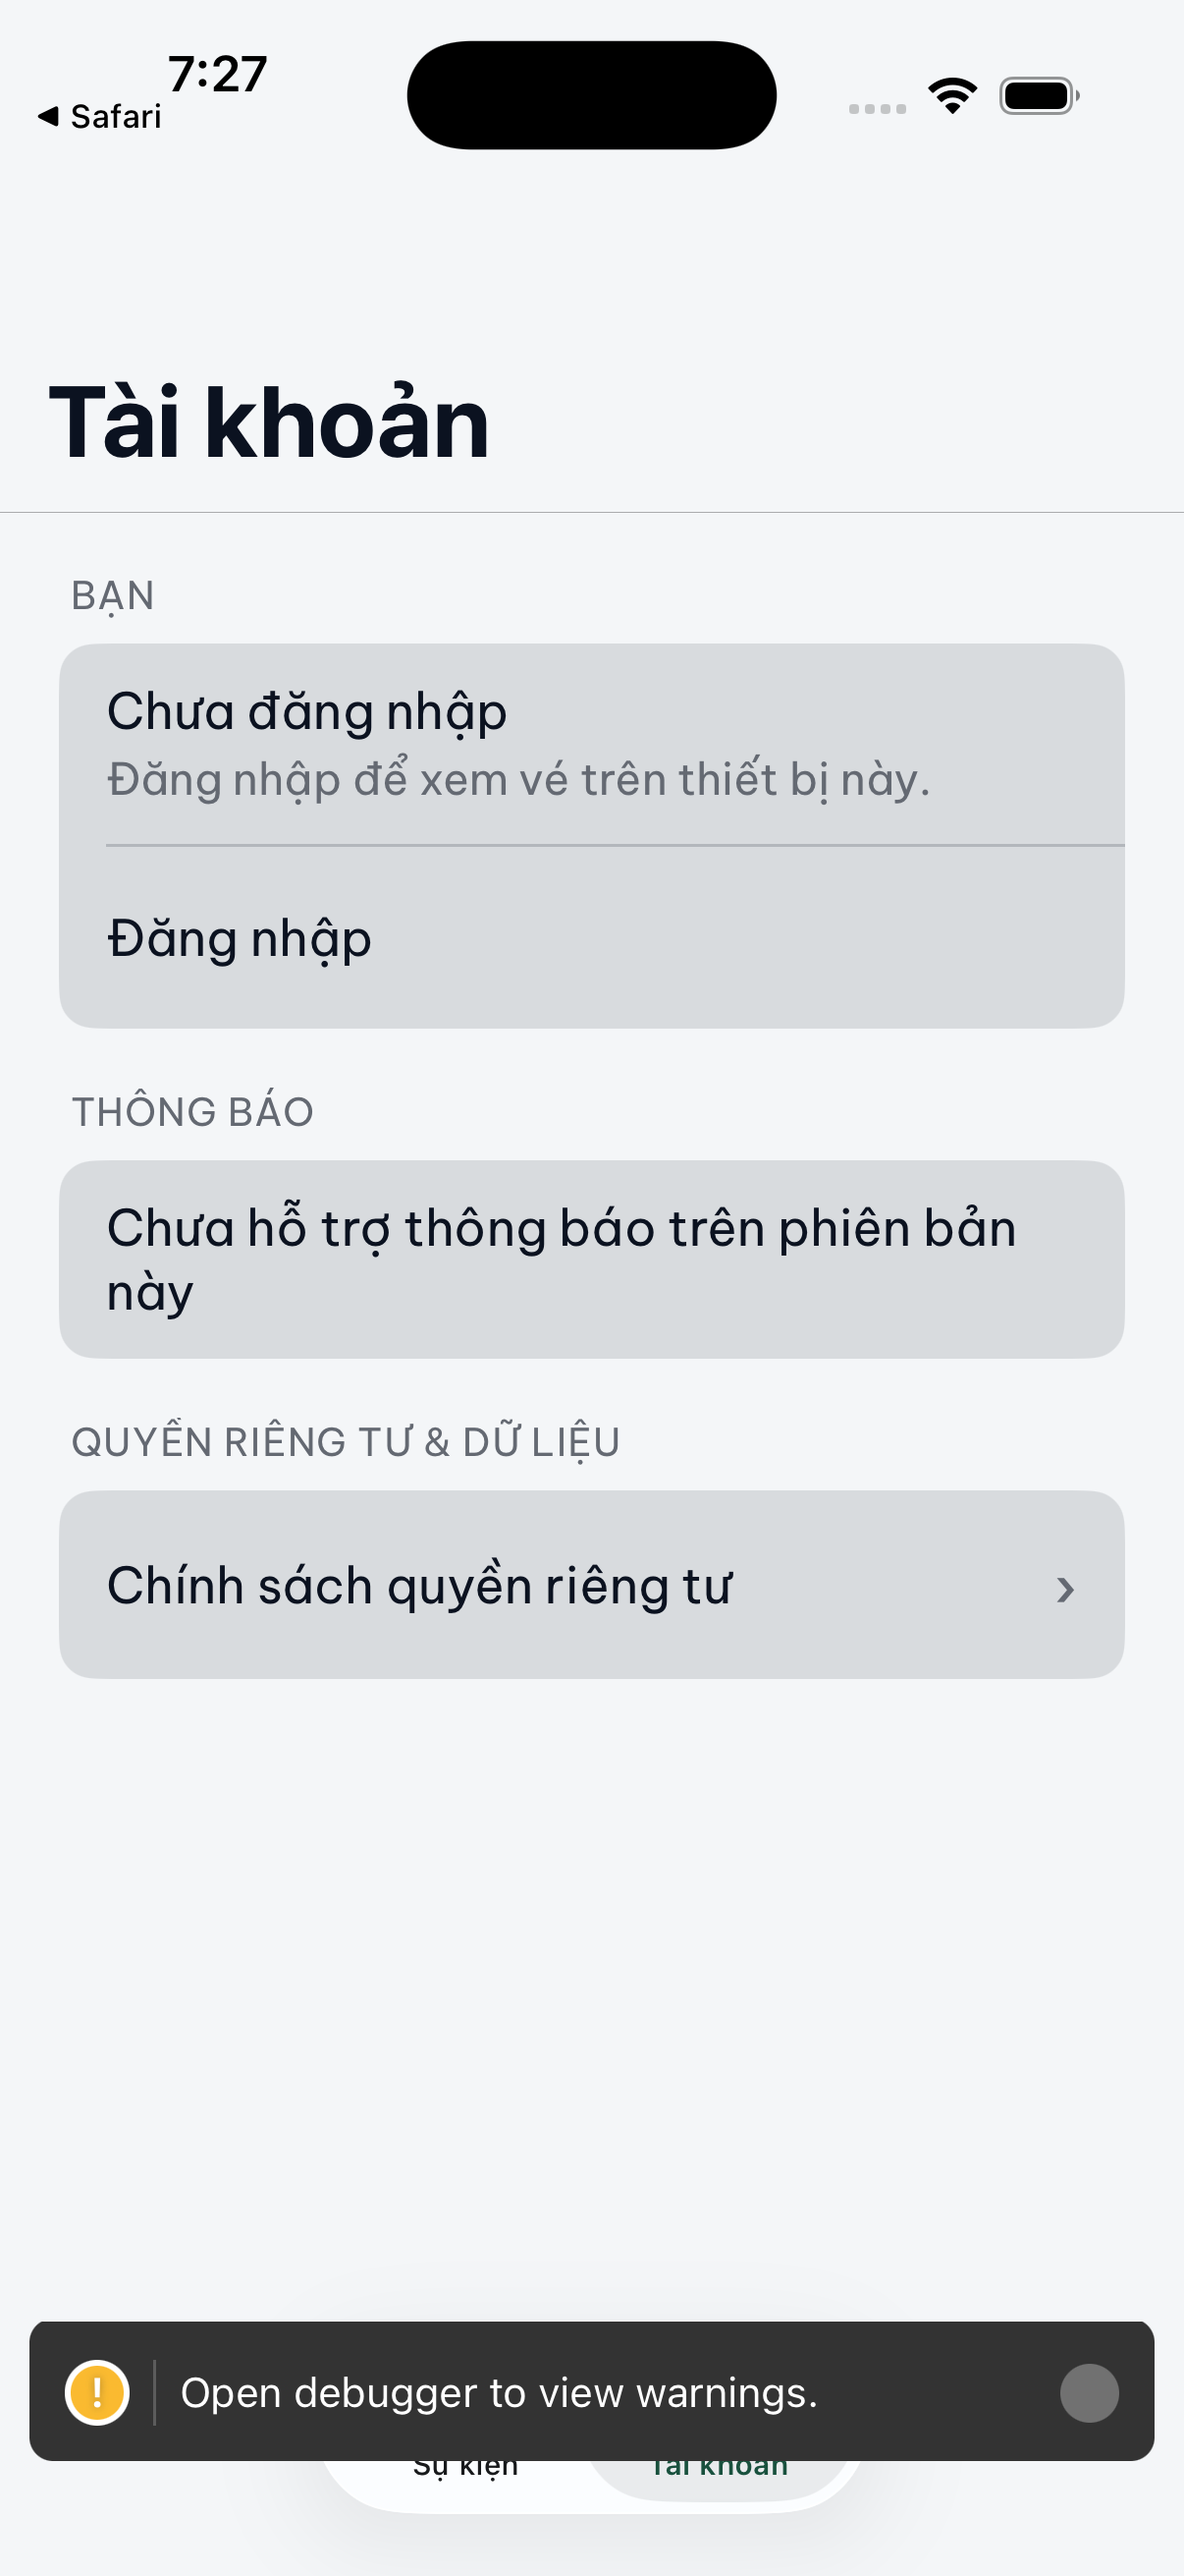
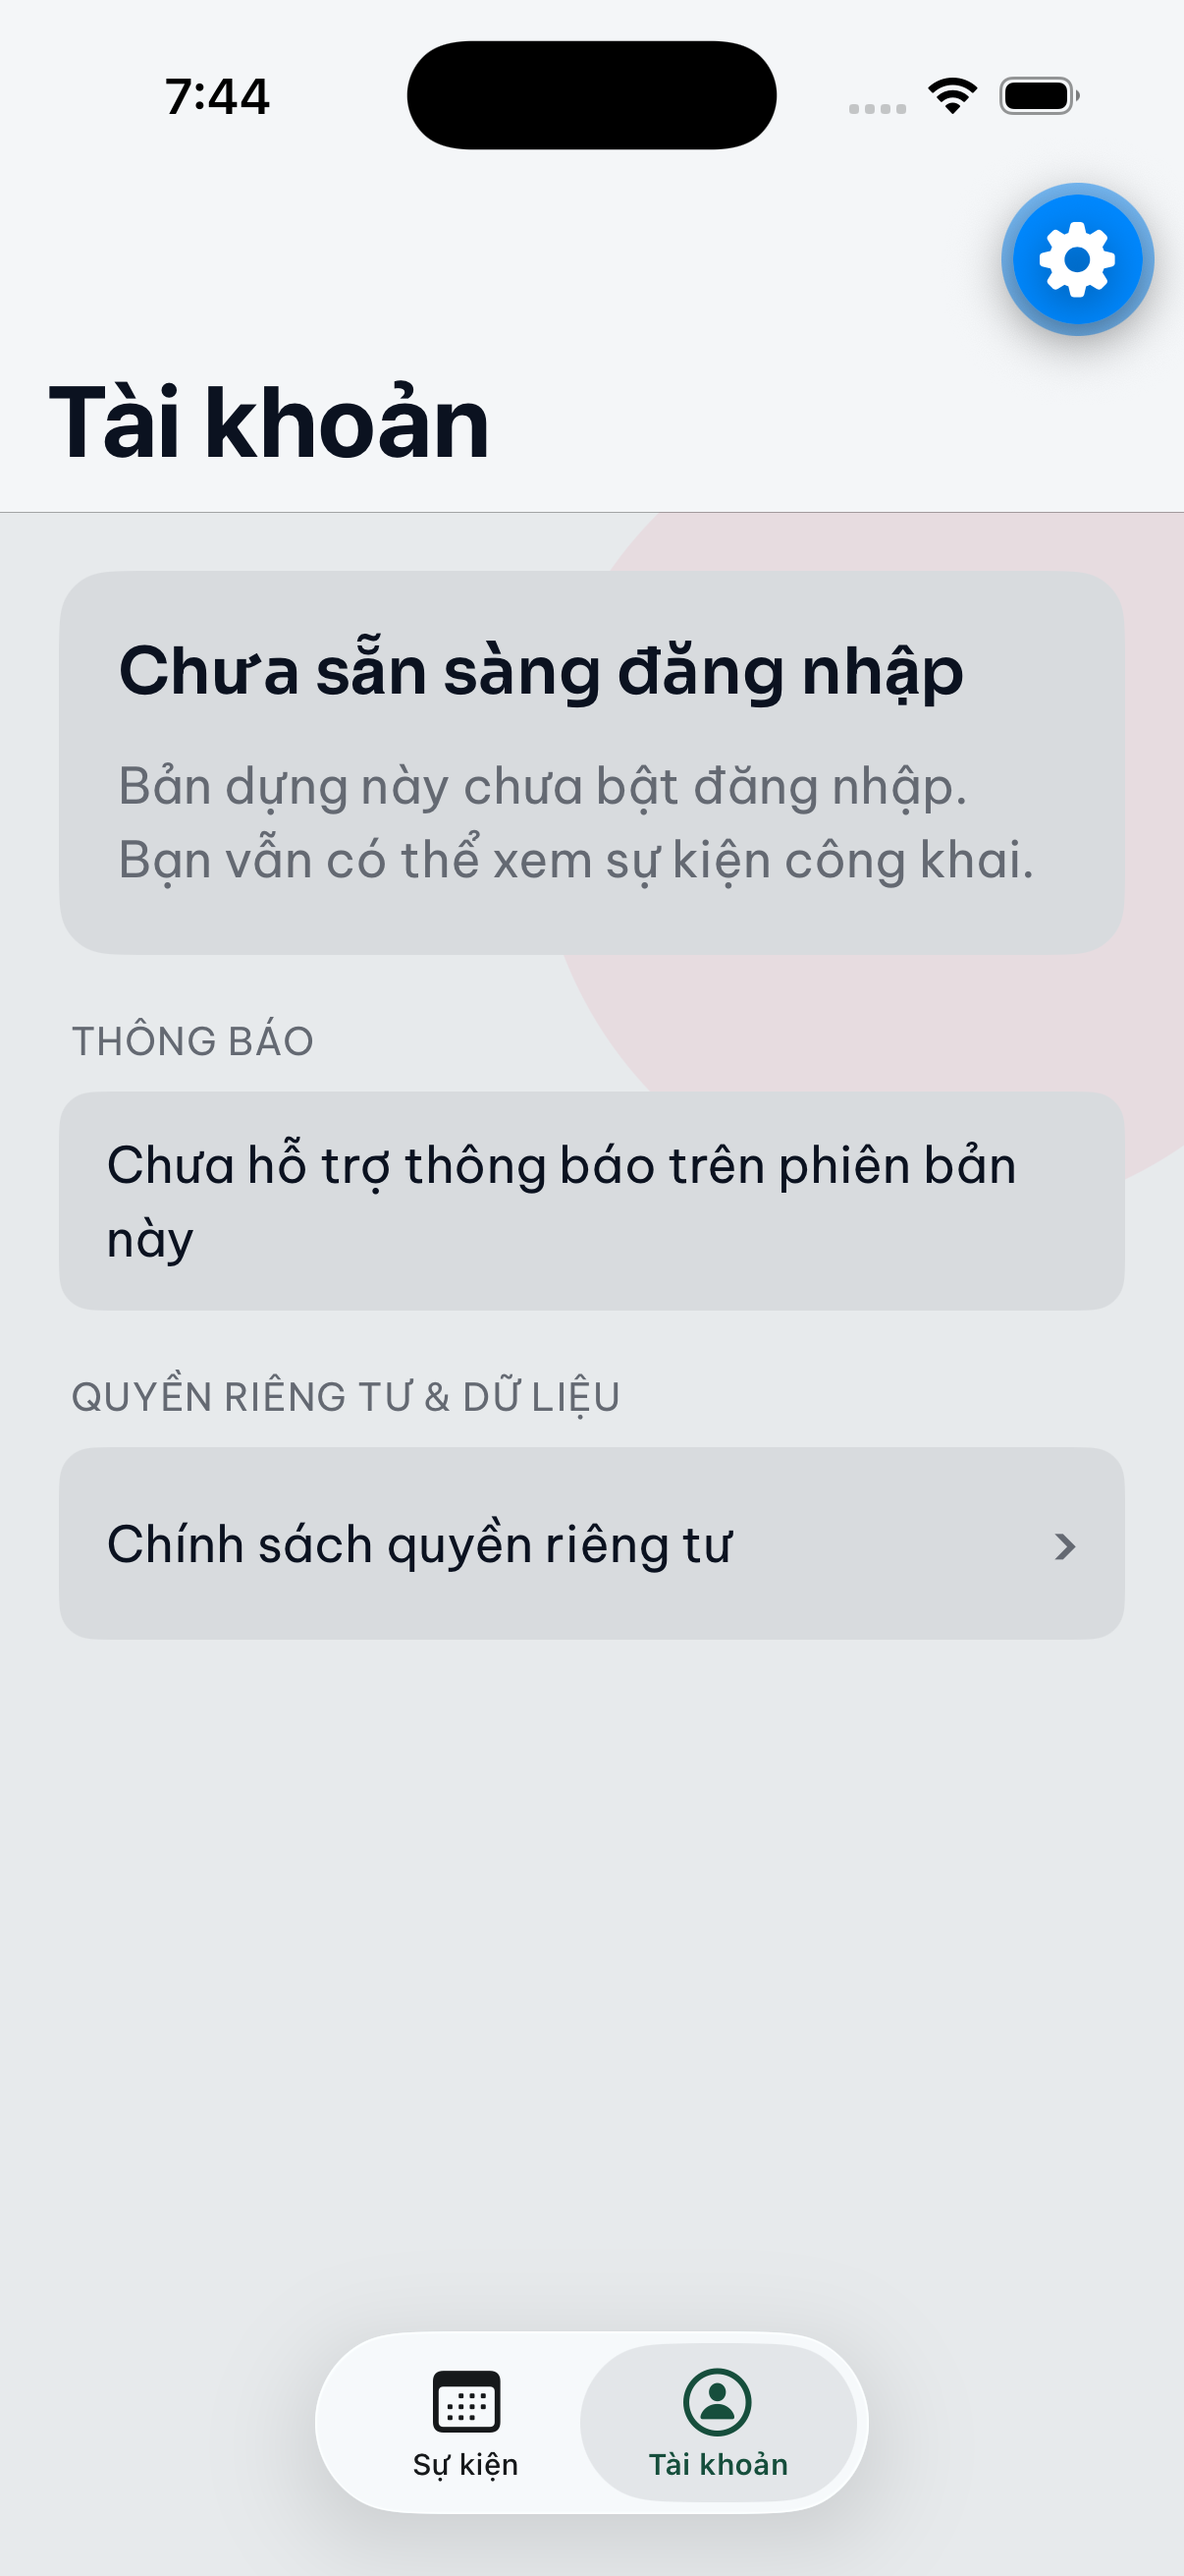
docs(mobile): PR #810 before/after sim evidence (Metro main vs branch)
Expo Go on sim F191CF59; before-main @ origin/main:8082, after @ branch:8081; ui-evidence-check OK.

diff --git a/docs/reviews/assets/PR810-ios-codemod/README.md b/docs/reviews/assets/PR810-ios-codemod/README.md
@@ -1,17 +1,55 @@
 # PR #810 — iOS codemod UI evidence (#797)
 
-Device: iPhone 15 Pro simulator `F191CF59-4B73-44E5-BFA8-4CE439EB31AD` (Orca emulator attach).
+**Device:** iPhone 15 Pro sim `F191CF59-4B73-44E5-BFA8-4CE439EB31AD` · Orca `emulator attach` + `xcrun simctl io` screenshot.  
+**Runtime:** Expo Go + Metro dev bundle (không rebuild native).
 
-| File | Route | Locale | State |
+## Metro / bundle
+
+| Pass | Worktree | Git | Port | Mở app |
+| --- | --- | --- | --- | --- |
+| **before** | `/Users/admin/SideProject/ticket-solution/main` (`origin/main`) | `d0491e43` | **8082** | `exp://127.0.0.1:8082` |
+| **after** | `uif-797-ios-codemod` (PR #810 branch) | tip PR | **8081** | `exp://127.0.0.1:8081` |
+
+Lệnh: `CI=1 REACT_NATIVE_PACKAGER_HOSTNAME=127.0.0.1 pnpm --filter @ticket/mobile exec expo start --dev-client --port <port>` từ root monorepo. Điều hướng: `exp://127.0.0.1:<port>/--/<route>`.
+
+## Ảnh (cặp before / after)
+
+| Before (`before-main/`) | After (`after/`) | Route | State |
 | --- | --- | --- | --- |
-| `after/events-iphone15-after.png` | `vemoki://events` | vi | tab events home |
-| `after/event-detail-demo-after.png` | `vemoki://events/demo-mfest` | vi | fixture event detail |
-| `after/my-tickets-after.png` | `vemoki://my-tickets` | vi | wallet tab |
-| `after/account-after.png` | `vemoki://account` | vi | account tab |
-| `after/redeem-after.png` | `vemoki://redeem` | vi | redeem entry |
+| `events-before.png` | `events-after.png` | `/--/(events)` | Tab Sự kiện · guest |
+| `event-detail-demo-before.png` | `event-detail-demo-after.png` | `/--/events/demo-mfest` | Fixture MFest |
+| `account-before.png` | `account-after.png` | `/--/(tabs)/account` | Tab Tài khoản |
+| `redeem-default-before.png` | `redeem-default-after.png` | `/--/redeem-global` | Guest · cổng đăng nhập redeem |
 
-## before-main
+**Kiểm tra trùng hash:**  
+`bash docs/agents/tools/ui-evidence-check.sh docs/reviews/assets/PR810-ios-codemod/before-main`  
+`bash docs/agents/tools/ui-evidence-check.sh docs/reviews/assets/PR810-ios-codemod/after`
 
-**Limitation:** `before-main/` chưa chụp trên bundle `origin/main` (cần Metro + dev client rebuild từ worktree main). Reviewer UI có thể diff visual từ map lẻ trong PR body; worker sẽ bổ sung before wave follow-up nếu coordinator yêu cầu.
+## Limitation (fixture / persona)
 
-SHA after: `1cb9f0fe298ed6c3840d07a252d056ecf12788bc`
+| Màn | Trạng thái |
+| --- | --- |
+| **my-tickets** | Guest sim redirect về catalog Sự kiện (giống PR #790) — không có ảnh riêng; dùng cặp `events-*` làm proxy. |
+| **redeem-disabled** | CTA `global-redeem-cta-resolve` disabled (mã rỗng) cần phiên đã xác minh OIDC; guest chỉ thấy màn đăng nhập — không chụp disabled trong session này. |
+| **ticket-detail** | Cần vé trong ví + API; không chụp. |
+| **staff gate** | Cần fixture gate / phiên staff; không chụp. |
+
+## Thay đổi thị giác (map lẻ PD — so sánh cặp ảnh)
+
+Chỉ các vùng map **10→12**, **6→8**, **14→12**, **22→20** (v.v.) có thể khác pixel; grid token giữ nguyên.
+
+| Vùng trên ảnh | Thuộc tính cũ → token | File UI chính |
+| --- | --- | --- |
+| Gap/padding list event card, search chrome | `10` → `space.md` (12), `6` → `space.sm` (8) | `screens/events.tsx` |
+| Padding section event detail, CTA block | `14`/`10` → `space.md` | `screens/event-detail.tsx` |
+| Typography body copy | `fontSize: 15/17` → `typography.subhead` / `body` | nhiều `Text` |
+| Account rows / section spacing | `10`/`12` → `space.*` | `screens/account.tsx`, `account-grouped-section.tsx` |
+| Redeem sign-in stack | `16`/`12` → `space.lg` / `space.md` | `screens/global-redeem.tsx` |
+| Gate sticky (không có ảnh staff) | `gap: 10` → `space.sm` (8) ngoại lệ PD | `gate/staff-gate-ops-sticky.tsx` |
+
+**Gợi ý reviewer:** zoom `events-*` và `event-detail-*` — khoảng cách card/list và cỡ chữ phụ có thể lệch 1–2px so với before.
+
+## SHA evidence
+
+- Before bundle: `origin/main` @ `d0491e43e2d6dac0e16d80ca69ccea8fb2a5bbba`
+- After bundle: tip PR #810 (xem commit evidence trong PR)
